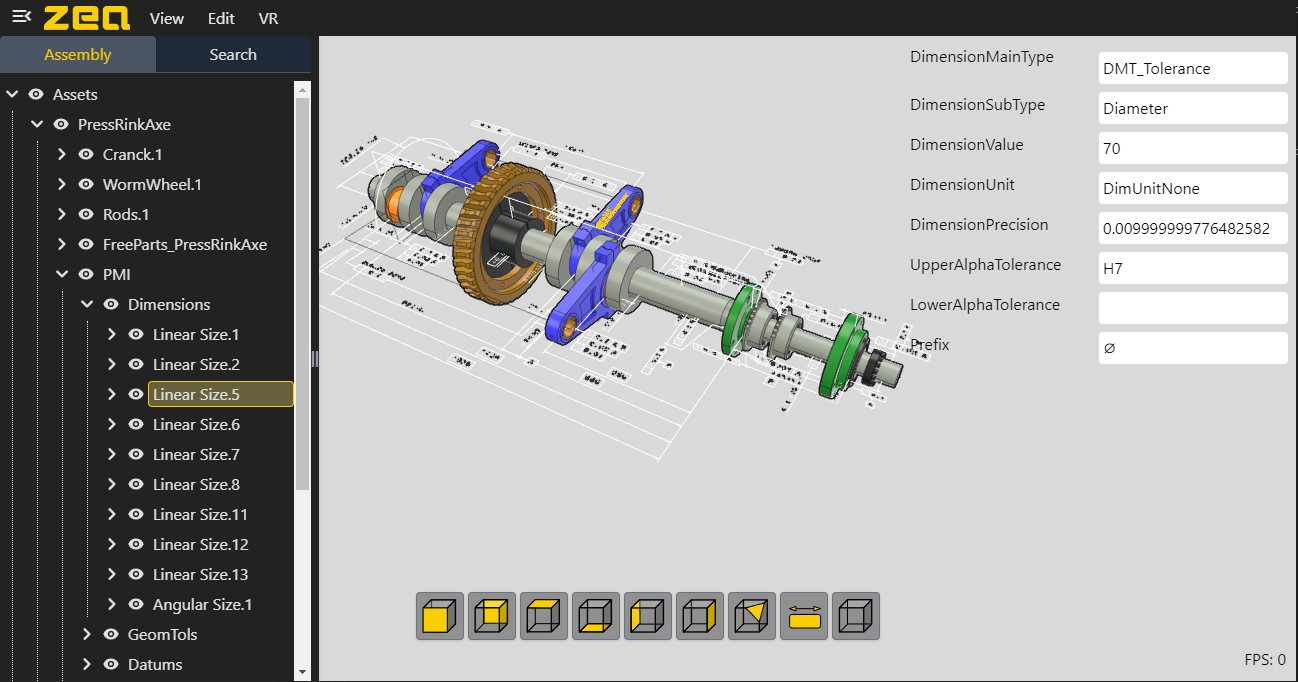
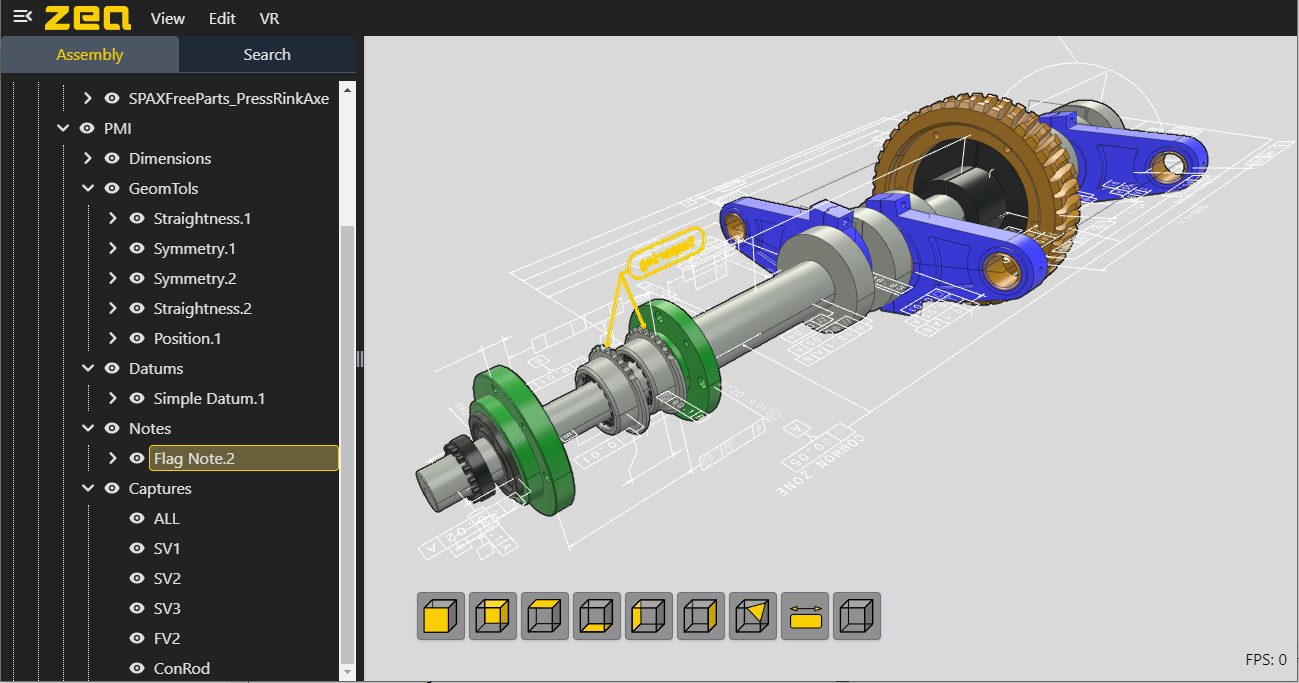
fix: removed back outlines around PMI data.

diff --git a/src/components/Main.svelte b/src/components/Main.svelte
@@ -38,8 +38,9 @@
     InstanceItem,
     CameraManipulator,
     AssetLoadContext,
+    GeomItem,
   } from '@zeainc/zea-engine'
-  import { CADAsset, CADBody, CADPart } from '@zeainc/zea-cad'
+  import { CADAsset, CADBody, CADPart, PMIItem } from '@zeainc/zea-cad'
   import { SelectionManager, UndoRedoManager, ToolManager, SelectionTool } from '@zeainc/zea-ux'
 
   import { GLTFAsset } from '@zeainc/gltf-loader'
@@ -78,6 +79,22 @@
     context.resources = resources
     context.camera = renderer.getViewport().getCamera()
     asset.load(url, context).then(() => {
+      // The following is a quick hack to remove the black outlines around PMI text.
+      // We do not crete ourlines around transparent geometries, so by forcing
+      // the PMI items sub-trees to be considered transparent, it moves them into
+      // the GLTransparentPass, which does not draw outlines. this cleans up
+      // the rendering considerably.
+      asset.traverse((item) => {
+        if (item instanceof PMIItem) {
+          item.traverse((item) => {
+            if (item instanceof GeomItem) {
+              item.materialParam.value.__isTransparent = true
+            }
+          })
+          return false
+        }
+        return true
+      })
       renderer.frameAll()
     })
     $assets.addChild(asset)
